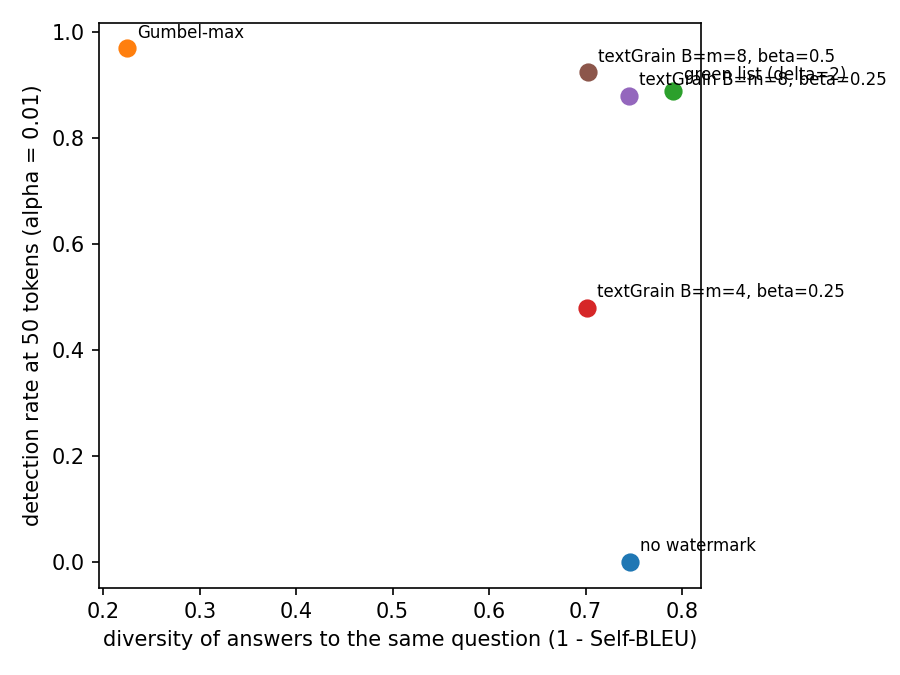
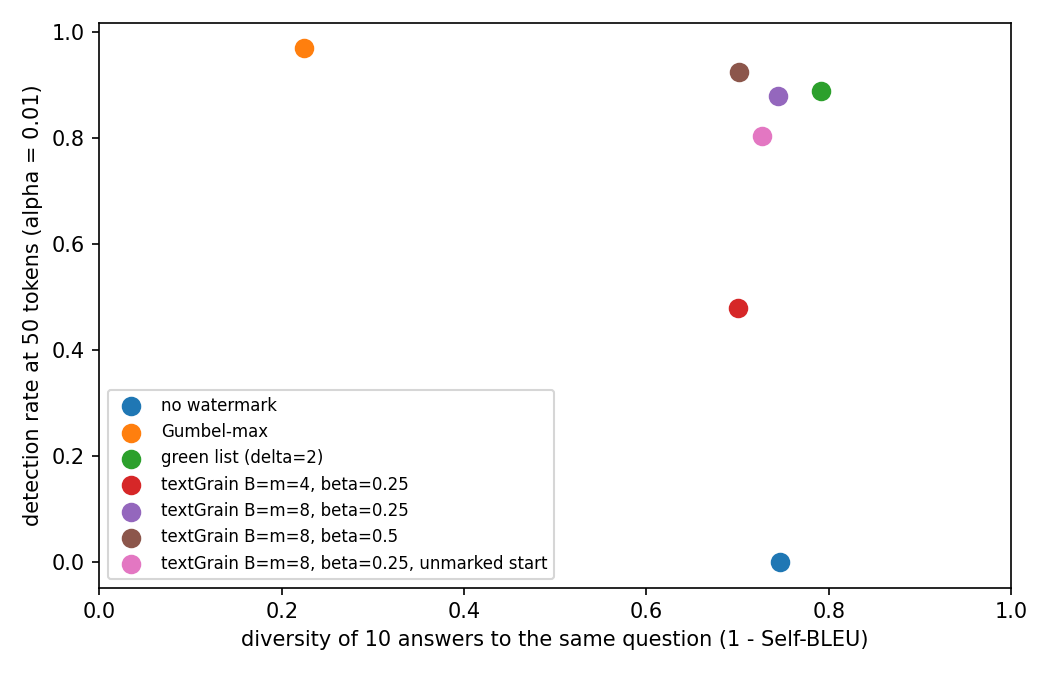
Add README, report, figures and analysis scripts

diff --git a/experiments/analyze.py b/experiments/analyze.py
@@ -27,8 +27,9 @@ CONFIGS = {
     "textgrain_B8_b0.75": "textGrain B=m=8, beta=0.75",
     "textgrain_B8_b0.25_L1": "textGrain B=m=8, beta=0.25, L=1",
     "textgrain_B8_b0.25_L4": "textGrain B=m=8, beta=0.25, L=4",
+    "textgrain_B8_b0.25_start": "textGrain B=m=8, beta=0.25, unmarked start",
 }
-DIVERSITY = ["none", "gumbel", "greenlist_d2", "textgrain_B4_b0.25", "textgrain_B8_b0.25", "textgrain_B8_b0.5"]
+DIVERSITY = ["none", "gumbel", "greenlist_d2", "textgrain_B4_b0.25", "textgrain_B8_b0.25", "textgrain_B8_b0.5", "textgrain_B8_b0.25_start"]
 LABELS = {"none": "no watermark", **CONFIGS}
 
 
@@ -230,16 +231,21 @@ def main() -> None:
         for name in attacked:
             print(f"{CONFIGS[name]:36}" + "  ".join(f"{a}: {r:.2f}" for a, r in robustness(name).items()))
 
-    fig, axes = plt.subplots(1, 2, figsize=(12, 4.5), sharey=True)
-    for ax, kind in zip(axes, ["all", "filtered"]):
-        for name, row in table.items():
-            ax.plot(LENGTHS, row[kind], marker="o", label=CONFIGS[name])
+    panels = {
+        "methods": ["gumbel", "greenlist_d2", "textgrain_B4_b0.25", "textgrain_B8_b0.25"],
+        "textGrain settings": ["textgrain_B2_b0.25", "textgrain_B4_b0.1", "textgrain_B4_b0.25", "textgrain_B8_b0.25", "textgrain_B8_b0.5", "textgrain_B8_b0.25_L1"],
+    }
+    fig, axes = plt.subplots(1, 2, figsize=(11, 4), sharey=True)
+    for ax, (title, names) in zip(axes, panels.items()):
+        for name in names:
+            if name in table:
+                ax.plot(LENGTHS, table[name]["all"], marker="o", label=CONFIGS[name])
         ax.set_xscale("log")
         ax.set_xticks(LENGTHS, [str(n) for n in LENGTHS])
         ax.set_xlabel("tokens read")
-        ax.set_title("all texts" if kind == "all" else "texts not past their natural end")
+        ax.set_title(title)
+        ax.legend(fontsize=8)
     axes[0].set_ylabel(f"detection rate (alpha = {ALPHA})")
-    axes[1].legend(fontsize=7)
     fig.tight_layout()
     fig.savefig(FIGURES / "power_vs_length.png", dpi=150)
     plt.close(fig)
@@ -258,13 +264,14 @@ def main() -> None:
     plt.close(fig)
 
     if div:
-        fig, ax = plt.subplots(figsize=(6, 4.5))
+        fig, ax = plt.subplots(figsize=(7, 4.5))
         for name, d in div.items():
             power = table[name]["all"][LENGTHS.index(50)] if name in table else 0.0
-            ax.scatter(1 - d["self_bleu"], power, s=60)
-            ax.annotate(LABELS[name], (1 - d["self_bleu"], power), fontsize=8, xytext=(5, 5), textcoords="offset points")
-        ax.set_xlabel("diversity of answers to the same question (1 - Self-BLEU)")
+            ax.scatter(1 - d["self_bleu"], power, s=70, label=LABELS[name])
+        ax.set_xlim(0, 1)
+        ax.set_xlabel("diversity of 10 answers to the same question (1 - Self-BLEU)")
         ax.set_ylabel(f"detection rate at 50 tokens (alpha = {ALPHA})")
+        ax.legend(fontsize=8, loc="lower left")
         fig.tight_layout()
         fig.savefig(FIGURES / "power_vs_diversity.png", dpi=150)
         plt.close(fig)

diff --git a/experiments/score.py b/experiments/score.py
@@ -51,17 +51,20 @@ def score_record(record: dict, key: bytes, negatives: list[str]) -> dict:
     return out
 
 
-def score_attack_file(path: Path, key: bytes) -> None:
+def score_attacked_record(record: dict, detector: str, key: bytes, window: int) -> dict:
+    """Takes the modified versions of one watermarked text and returns their scores under the original detector."""
+    scores = {attack: {"t": scored_indices(tokens, window), "y": score(tokens, detector, key, window)} for attack, tokens in record["ids"].items()}
+    return {"index": record["index"], "detector": detector, "scores": scores}
+
+
+def score_attack_file(path: Path, key: bytes, workers: int) -> None:
     """Takes an attacks file (modified versions of watermarked texts) and saves the score of every modified version under the original detector."""
     source = path.with_name(path.name.replace(".attacks.json", ".jsonl"))
     settings = json.loads(source.open().readline())["settings"]
     (detector,) = detector_names(settings)
-    out = []
-    for record in json.loads(path.read_text()):
-        scores = {}
-        for attack, tokens in record["ids"].items():
-            scores[attack] = {"t": scored_indices(tokens, settings["window"]), "y": score(tokens, detector, key, settings["window"])}
-        out.append({"index": record["index"], "detector": detector, "scores": scores})
+    records = json.loads(path.read_text())
+    with Pool(workers) as pool:
+        out = pool.map(partial(score_attacked_record, detector=detector, key=key, window=settings["window"]), records)
     path.with_name(path.name.replace(".json", ".scores.json")).write_text(json.dumps(out))
     print(f"{path.name}: {len(out)} attacked texts scored", flush=True)
 
@@ -81,7 +84,7 @@ def main() -> None:
         if out_path.exists():
             continue
         if path.name.endswith(".attacks.json"):
-            score_attack_file(path, key)
+            score_attack_file(path, key, args.workers)
             continue
         records = [json.loads(line) for line in path.open()]
         human = negatives if records[0]["settings"]["method"] == "none" else []

diff --git a/figures/examples.md b/figures/examples.md
@@ -70,6 +70,14 @@
 > A text watermark is a method used to protect or authenticate the origin of textual content, such as documents, reports, or other written material. Text watermarks can be applied in various ways to obscure or blend with the base text, and are designed to prevent unauthorized copying, reusing, or distribution of the original work. This can be achieved using various techniques, such as embedding invisible text into the image or incorporating invisible patterns and symbols into the document. They allow creators to add assurance to their work which helps in preventing any illicit use or copycatting of their work by unauthorized third parties.
 > Typically, watermarking is used in the publishing industry for protecting the intellectual property of creators. However, it's utilized in a broader scope too, for privacy
 
+**textGrain B=m=8, beta=0.25, unmarked start**
+
+> A text watermark is a typewritten text inserted into the original document such that it becomes part of its physical structure. It can be a redacted element, a printed marginalia or annotation, which allows the content provider to retain ownership over material presented within the watermark.
+> 
+> Once the text has been imprinted, it is almost impossible to remove without completely destroying the content. As such, text watermarks can prevent the theft of copyrighted works or protecting brand awareness.
+
+> A text watermark is a text message that is incorporated into a document, such as a picture, in order to prevent it from being easily copied. When someone takes a photo or scanning of a document that has a watermark, the watermark text is very hard to decipher. If you decipher the watermark text, it could indicate that you have access to or information about the original document. Therefore, users often set watermarks on sensitive documents.
+
 ## Explain to a ten-year-old why the sky is blue.
 
 **no watermark**
@@ -137,6 +145,20 @@
 > 
 > You know that sun comes up in the morning and it gives us light? That's not the light you're thinking about though. The light that gives us sunlight during the day is actually shorter and more orange and yellow and green. But when the sun gets very, very low in the sky at night or just before sunrise, it's cooler and it makes our world turn dark and cool. It's
 
+**textGrain B=m=8, beta=0.25, unmarked start**
+
+> Sure! Let's explore why the sky looks blue from the ground, like a little science experiment.
+> 
+> Imagine the sky is like a big blanket spread out in the sky, filled with tiny bits of bright blue. When sunlight hits the blue bits, they scatter the color all around us. The farther you look into the sky, the more of these tiny blue bits you see. That's why it looks blue to your eyes!
+> 
+> But what if you saw the whole sky at once? Wouldn't it look like it's the same color everywhere? That's because of something called "Rayleigh scattering." Maybe you can think of it like a big cloud of dust that the sun's light dances through. When you look up at the sky, the dust or
+
+> The sky appears blue because it's the angle of sunlight that is hitting the Earth's atmosphere. 
+> When sunlight hits the Earth, it's not all at once. Instead, it spreads out in all directions. This is why we see the sky as a color and not a solid hue. 
+> However, when sunlight passes through the Earth's atmosphere, it gets bent, or refracted, by the air molecules. The angle at which this happens is the same as the angle of our eyes looking at the sky. 
+> So, when we look up at the sky, the light has to penetrate through a layer of atmosphere that bends it at the same angle as our eyes are looking. This is why the sky appears blue. 
+> Additionally, the blue
+
 ## Write a haiku about the sea.
 
 **no watermark**
@@ -198,6 +220,16 @@
 > Waves crash,
 >  Milky way of blue,
 > Sea whispers, deep.
+
+**textGrain B=m=8, beta=0.25, unmarked start**
+
+> Waves crash,
+> 大海漫漫无际的胸膛，
+> 潮起潮落，永恒的舞。
+
+> Wave upon wave,
+> Blue sky meets deep waters,
+> Seas weep without tear.
 
 ## Give three tips to learn a new language.
 
@@ -291,3 +323,41 @@
 > 2. Practice speaking: Speaking is the most important aspect of language learning. Try to have conversations with people who speak the language you are learning. Join a language exchange group or find a language partner on online platforms. The more you practice speaking, the better you will become.
 > 
 > 3. Use language learning
+
+**textGrain B=m=8, beta=0.25, unmarked start**
+
+> 1. Practice consistently: Consistency is key when learning a new language. Set aside dedicated time each day to practice. You could use flashcards, language apps, or even watch movies or listen to podcasts in the language you are learning.
+>   2. Surround yourself in the language: Surrounding yourself in the language you are learning is an excellent way to accelerate your progress. Practice listening to native speakers, reading books or articles in the language, and using the language in your conversations. You can also try taking trips to places where the language is spoken and immerse yourself in the language.
+>   3. Simplicity is key: It's important to note that language learning is a gradual process that requires patience and consistency. Avoid overbur
+
+> Learning a new language can be challenging, but with persistence and proper strategies, it's definitely achievable. Here are three tips to help you get started:
+> 
+> 1. ** immerse yourself in the language**: The more you interact with the language, the better you will become. This can be through watching TV and movies in the language, listening to songs or podcasts, or even conversing with native speakers if possible. Interactive apps that translate text and offer exercises can also be very useful.
+> 
+> 2. ** practice regularly**: Like any skill, language proficiency requires consistent practice. Set aside time each day to study and practice, even if it's just for a few minutes. Consistency will help you build fluency gradually. Use language learning apps, built-in features
+
+## Attacks on one Gumbel-max text
+
+**original**
+
+> solution for high-performance computing. The company is expected to provide more details about the cluster during its Current TV 2023 conference, which is taking place this week. This latest cluster feature comes as IBM continues to expand its offerings in the hybrid work environment, which requires scalability and flexibility for both remote workers and those who prefer physical offices. By combining its Opteron-based 325 server with storage and management solutions, IBM is creating a framework that caters to organizations that need to handle a vast amount of data and applications, while pres
+
+**synonyms_0.1**
+
+> solution for high-performance computing. The company is expected to provide more inside information about the cluster during its Current TV 2023 conference, which is taking place this week. This latest cluster feature comes as IBM continues to expand its offerings in the hybrid work environment, which requires scalability and flexibility for both remote workers and those who prefer physical offices. By combining its Opteron-based 325 server with computer memory and management solutions, IBM is creating a framework that caters to organizations that need to handle a vast amount of data and appli
+
+**synonyms_0.2**
+
+> solution for high-performance computing. The company is anticipate to provide Sir Thomas More particular nigh the flock during its current TV 2023 conference, which is taking berth this week. This latest cluster feature number as IBM continues to expand its oblation in the hybrid knead environment, which want scalability and tractability for both outback workers and those who prefer physical offices. By unite its Opteron-based 325 server with storehouse and direction solutions, IBM is creating a theoretical account that provide to organizations that postulate to handle a Brobdingnagian amount 
+
+**synonyms_0.3**
+
+> resolution for high-performance computing. The company is expect to supply more detail about the bundle during its electric current TV 2023 conference, which is taking office this week. This up-to-the-minute constellate feature comes as IBM continues to expand its oblation in the crossbreed make environment, which expect scalability and flexibleness for both remote proletarian and those who opt forcible offices. By flux its Opteron-based 325 host with reposition and direction solutions, IBM is creating a framework that caters to organizations that motive to handle a huge amount of datum and ap
+
+**translation**
+
+> solution for high performance computing. The company is expected to provide more details on the cluster at its current 2023 television conference, which will take place this week. This latest cluster feature comes as IBM continues to expand its offerings in the hybrid work environment, which requires scalability and flexibility for remote workers and those who prefer physical offices. By combining its Opteron 325 server with storage and management solutions, IBM creates a framework for organizations that need to manage a large amount of data and applications, while maintaining data security an
+
+**paraphrase**
+
+> IBM is set to reveal more about its high-performance computing cluster at the Current TV 2023 event this week. The company's latest addition to its hybrid work environment solutions, which demand scalability and adaptability for both remote and on-site employees, combines its Opteron-based 325 server with storage and management systems. This creates a robust framework for organizations dealing with large volumes of data and applications, ensuring data security and integrity.  Targeting CIOs and top-level executives, IBM's 325 server aims to significantly enhance productivity and efficiency. Th

diff --git a/REPORT.md b/REPORT.md
@@ -1,0 +1,100 @@
+# textGrain: an empirical evaluation
+
+The textGrain report specifies the method and proves that it preserves the next-token distribution on average over keys, but it gives no experiment. This note measures what the method does on a small open model, and how its parameters, which the report leaves free, change the result.
+
+## 1. Setup
+
+- Model: Qwen2.5-1.5B-Instruct, temperature 1, no top-p truncation.
+- Prompts: the first 100 tokens of 200 C4 news articles (realnewslike, validation), with the instruction to continue the article. The real continuation serves as the human reference. Generations have 400 tokens; the end-of-text token is forbidden so that every text reaches 400 tokens (see section 2 for the effect of this choice).
+- Watermarks: Gumbel-max; green list with γ = 0.25 and δ = 2; textGrain with B = m ∈ {2, 4, 8} and β ∈ {0.1, 0.25, 0.5, 0.75}. All three use the same key, the same context window (the last L = 2 tokens unless stated), and sample freely at contexts already seen in the text.
+- Detection: one score per position, at the first occurrence of each context; Gamma test for Gumbel-max and textGrain, binomial test for the green list; α = 0.01.
+- Diversity: 30 open questions (4 written by hand, 26 from Dolly), 10 answers each with the same key, 150 tokens. Self-BLEU is the mean BLEU-4 of each answer against the 9 others.
+- Quality: perplexity of the continuation under Qwen2.5-3B-Instruct, given the article prefix.
+- Attacks: on 100 texts per method, WordNet synonyms for 10, 20 and 30 % of the words, round-trip translation English, French, English (MarianMT), and paraphrase by Phi-3.5-mini-instruct.
+
+## 2. Detection power
+
+![detection rate against length](figures/power_vs_length.png)
+
+| | 25 | 50 | 100 | 200 | 400 tokens | entropy removed |
+|---|---|---|---|---|---|---|
+| Gumbel-max | 0.92 | 0.97 | 0.99 | 1.00 | 1.00 | all |
+| green list | 0.66 | 0.89 | 0.97 | 1.00 | 1.00 | - |
+| textGrain B = m = 2, β = 0.25 | 0.05 | 0.07 | 0.17 | 0.43 | 0.77 | 0.10 |
+| textGrain B = m = 4, β = 0.1 | 0.14 | 0.32 | 0.65 | 0.90 | 0.99 | 0.10 |
+| textGrain B = m = 4, β = 0.25 | 0.17 | 0.48 | 0.80 | 0.97 | 1.00 | 0.21 |
+| textGrain B = m = 4, β = 0.5 | 0.17 | 0.45 | 0.81 | 0.97 | 1.00 | 0.24 |
+| textGrain B = m = 8, β = 0.25 | 0.67 | 0.88 | 0.97 | 1.00 | 1.00 | 0.25 |
+| textGrain B = m = 8, β = 0.5 | 0.73 | 0.93 | 0.97 | 1.00 | 1.00 | 0.35 |
+| textGrain B = m = 8, β = 0.75 | 0.74 | 0.93 | 0.98 | 1.00 | 1.00 | 0.36 |
+
+The removed fraction is the one actually achieved, averaged over the text. It stays below the request when the request exceeds what the coupling allows: about 0.24 for B = m = 4 and 0.36 for B = m = 8 on these texts.
+
+At equal cost, B and m change the detection rate far more than β: with a quarter of the entropy removed, 17 % of texts are detected after 25 tokens with 4 blocks and 67 % with 8.
+
+Forcing 400 tokens could favour detection if the text continued past the point where the model wanted to stop. On these prompts, 192 of the 200 texts had not reached that point by token 200, and restricting each length to the texts still before it leaves the rates unchanged to within 0.01.
+
+## 3. Where the signal comes from
+
+![signal against entropy](figures/signal_vs_entropy.png)
+
+The mean score per position, minus its value of 1 on human text, grows roughly linearly with the entropy of the position for Gumbel-max. For textGrain it saturates above about 3 nats, near 0.7 for m = 4 and 1.2 for m = 8. The coupling between blocks and m columns can remove at most ln m nats (1.4 for m = 4, 2.1 for m = 8), so high-entropy positions, which carry most of the signal for Gumbel-max, are capped. This explains both the effect of B and m and the ceiling on β.
+
+Signal per position divided by the entropy removed per position:
+
+| | B = m = 2, β = 0.25 | B = m = 4, β = 0.1 | B = m = 4, β = 0.25 | B = m = 8, β = 0.25 | B = m = 8, β = 0.5 |
+|---|---|---|---|---|---|
+| signal per nat | 0.67 | 1.40 | 0.81 | 1.10 | 0.81 |
+
+The first nats removed are the most useful; returns then decrease, more slowly with more columns.
+
+The context window has a smaller effect. With B = m = 8 and β = 0.25, L = 1 detects 76 % of texts after 25 tokens, L = 2 67 % and L = 4 66 %. A shorter window repeats contexts more often but also lets each position be scored earlier.
+
+## 4. Diversity and quality
+
+| | distinct answers out of 10 | Self-BLEU | median perplexity | Mann-Whitney p against no watermark |
+|---|---|---|---|---|
+| no watermark | 9.9 | 0.25 | 20.3 | - |
+| Gumbel-max | 7.0 | 0.78 | 18.2 | 0.86 |
+| green list | 10.0 | 0.21 | 45.1 | < 0.001 |
+| textGrain B = m = 4, β = 0.25 | 9.8 | 0.30 | 19.3 | 0.44 |
+| textGrain B = m = 8, β = 0.25 | 10.0 | 0.26 | 22.1 | 0.13 |
+| textGrain B = m = 8, β = 0.5 | 10.0 | 0.30 | 23.3 | 0.02 |
+
+Gumbel-max answers to the same question are near copies: they only differ after a repeated context, where sampling is free. textGrain keeps the diversity of the unwatermarked model. The green list more than doubles perplexity; the answers in [figures/examples.md](figures/examples.md) show why, with phrases such as "watermark sinusoidal recovery devices" that the other methods do not produce.
+
+textGrain's perplexity rises slightly with B and β, and the rise is significant for β ≥ 0.5. Its sampler is unbiased position by position (6,000 draws on a fixed distribution with fresh contexts match it, χ² per degree of freedom 0.68), and leaving the first positions unwatermarked (section 5) does not remove the rise. The cause is still open.
+
+## 5. False positives with a fixed key
+
+The report notes that a fixed key needs empirical calibration. Two effects appear here.
+
+Start of the answer. The first token has an empty context, so it receives the same partition, table and column in every text. The watermark then pushes all texts towards the same openings: with B = m = 8, 8 of 200 continuations start with "Despite", against none without watermark. Leaving the first L positions unwatermarked and unscored restores exactly the unwatermarked openings, for a small loss in detection (55 % instead of 67 % after 25 tokens, identical from 200 tokens).
+
+Frequent contexts. Pairs such as "of the" occur in many texts and always meet the same draw, so the scores of different human texts are not independent. On 1,000 human continuations, the rate below α = 0.01 stays between 0.4 % and 1.6 %, but the p-values are not uniform for textGrain with few blocks:
+
+| detector | below 0.01 | KS p-value, all positions | KS p-value, contexts in more than 1 % of texts removed |
+|---|---|---|---|
+| Gumbel-max | 0.015 | 0.42 | 0.58 |
+| textGrain B = 2 | 0.007 | < 0.001 | 0.27 |
+| textGrain B = 4 | 0.011 | 0.004 | 0.58 |
+| textGrain B = 8 | 0.016 | 0.29 | 0.05 |
+
+(The binomial p-values of the green list are discrete, so the KS test does not apply to them.)
+
+## 6. Robustness
+
+Detection rate at α = 0.01 after each modification, on 100 texts of 400 tokens:
+
+| | synonyms 10 % | 20 % | 30 % | round-trip translation | paraphrase |
+|---|---|---|---|---|---|
+| Gumbel-max | 1.00 | 1.00 | 1.00 | 1.00 | 0.72 |
+| green list | 1.00 | 1.00 | 1.00 | 0.99 | 0.24 |
+| textGrain B = m = 4 | 0.99 | 0.98 | 0.88 | 0.74 | 0.12 |
+| textGrain B = m = 8 | 1.00 | 1.00 | 0.99 | 0.96 | 0.29 |
+
+Word substitutions do not remove the watermark at this length. Paraphrase removes most of it for all methods except Gumbel-max, whose stronger signal per token survives in the fragments the paraphrase keeps. More blocks and columns make textGrain markedly more robust.
+
+## 7. Limitations
+
+One model of 1.5B parameters, one key, 200 texts per setting and 100 per attack; Self-BLEU only measures surface overlap; the paraphraser is a single small model. The perplexity rise of section 4 is not explained.

diff --git a/README.md b/README.md
@@ -1,3 +1,52 @@
-# textGrain
+# textGrain: reimplementation and evaluation
 
-Reimplementation and evaluation of the textGrain watermark on open-weights LLMs.
+A reimplementation of textGrain, the text watermark described in OpenAI's technical report of 5 October 2026 ([pdf](https://cdn.openai.com/pdf/e9508624-d767-41b6-a26d-e34ca798ada6/textgrain-entropy-calibrated-watermarking-for-language-model-text.pdf)), on Qwen2.5-1.5B-Instruct, with an evaluation the report does not include: detection power, diversity, text quality, false positives and robustness, compared with Gumbel-max and green-list watermarks.
+
+## How textGrain works
+
+At each step, a secret key and the last few tokens seed a random generator that splits the vocabulary into B blocks and draws a B × m table of Gumbel variables and a column J.
+A coupling between blocks and m columns is computed by Sinkhorn iterations: it favours (block, column) cells with large Gumbel values, keeps the next-token distribution unchanged on average over columns, and removes a chosen fraction β of its entropy.
+The next block is sampled from column J, then the token inside the block with the model's own probabilities.
+The detector only needs the text and the key: it rebuilds the table at each position, reads the uniform U of the cell (block of the written token, J) and sums −ln(1 − U), which follows a Gamma law on human text.
+
+## Results
+
+![detection rate against diversity](figures/power_vs_diversity.png)
+
+200 continuations of C4 news articles (400 tokens), detection at α = 0.01; diversity over 10 answers to each of 30 open questions; perplexity under Qwen2.5-3B; paraphrase by Phi-3.5-mini.
+
+| | detected at 25 / 50 / 100 tokens | Self-BLEU (lower is more diverse) | median perplexity | detected after paraphrase |
+|---|---|---|---|---|
+| no watermark | - | 0.25 | 20.3 | - |
+| Gumbel-max | 0.92 / 0.97 / 0.99 | 0.78 | 18.2 | 0.72 |
+| green list (δ = 2) | 0.66 / 0.89 / 0.97 | 0.21 | 45.1 | 0.24 |
+| textGrain B = m = 4, β = 0.25 | 0.17 / 0.48 / 0.80 | 0.30 | 19.3 | 0.12 |
+| textGrain B = m = 8, β = 0.25 | 0.67 / 0.88 / 0.97 | 0.26 | 22.1 | 0.29 |
+
+Main observations, detailed in [REPORT.md](REPORT.md):
+
+- The number of blocks and columns matters more than β. At the same entropy cost, B = m = 8 detects 67 % of texts after 25 tokens, B = m = 4 only 17 %.
+- textGrain's signal per token saturates on high-entropy positions, because a coupling with m columns cannot remove more than ln m nats. Asking for a larger β beyond this ceiling changes nothing.
+- With B = m = 8, textGrain matches the green list in detection while keeping the diversity of the unwatermarked model and without doubling perplexity. Gumbel-max detects best but gives near-identical answers to a repeated prompt.
+- With a fixed key, frequent contexts always receive the same random draw. The empty context at the start of every answer biases the first words of all texts, and frequent contexts make the null p-values slightly non-uniform. Both are fixed by leaving the first positions unwatermarked and ignoring frequent contexts at detection.
+
+## Repository
+
+```
+src/textgrain/    model loading, generation loop, keys, Gumbel-max, green list, textGrain coupling, detectors
+tests/            unit tests, including the toy example of the brief (HMAC, blocks, lambda, coupling)
+experiments/      generation, scoring, perplexity, attacks, analysis, and the Kaggle notebooks used for the runs
+figures/          figures of the report and text examples
+```
+
+## Reproducing
+
+```
+uv sync
+uv run pytest
+uv run python experiments/generate.py --model Qwen/Qwen2.5-1.5B-Instruct --method textgrain --beta 0.25 --blocks 8 --columns 8 --n-prompts 200 --no-eos --out results/textgrain_B8_b0.25.jsonl
+uv run python experiments/score.py results/*.jsonl
+uv run python experiments/analyze.py
+```
+
+The full runs (about 6 GPU hours on two T4) are in `experiments/kaggle_run*.ipynb`.
